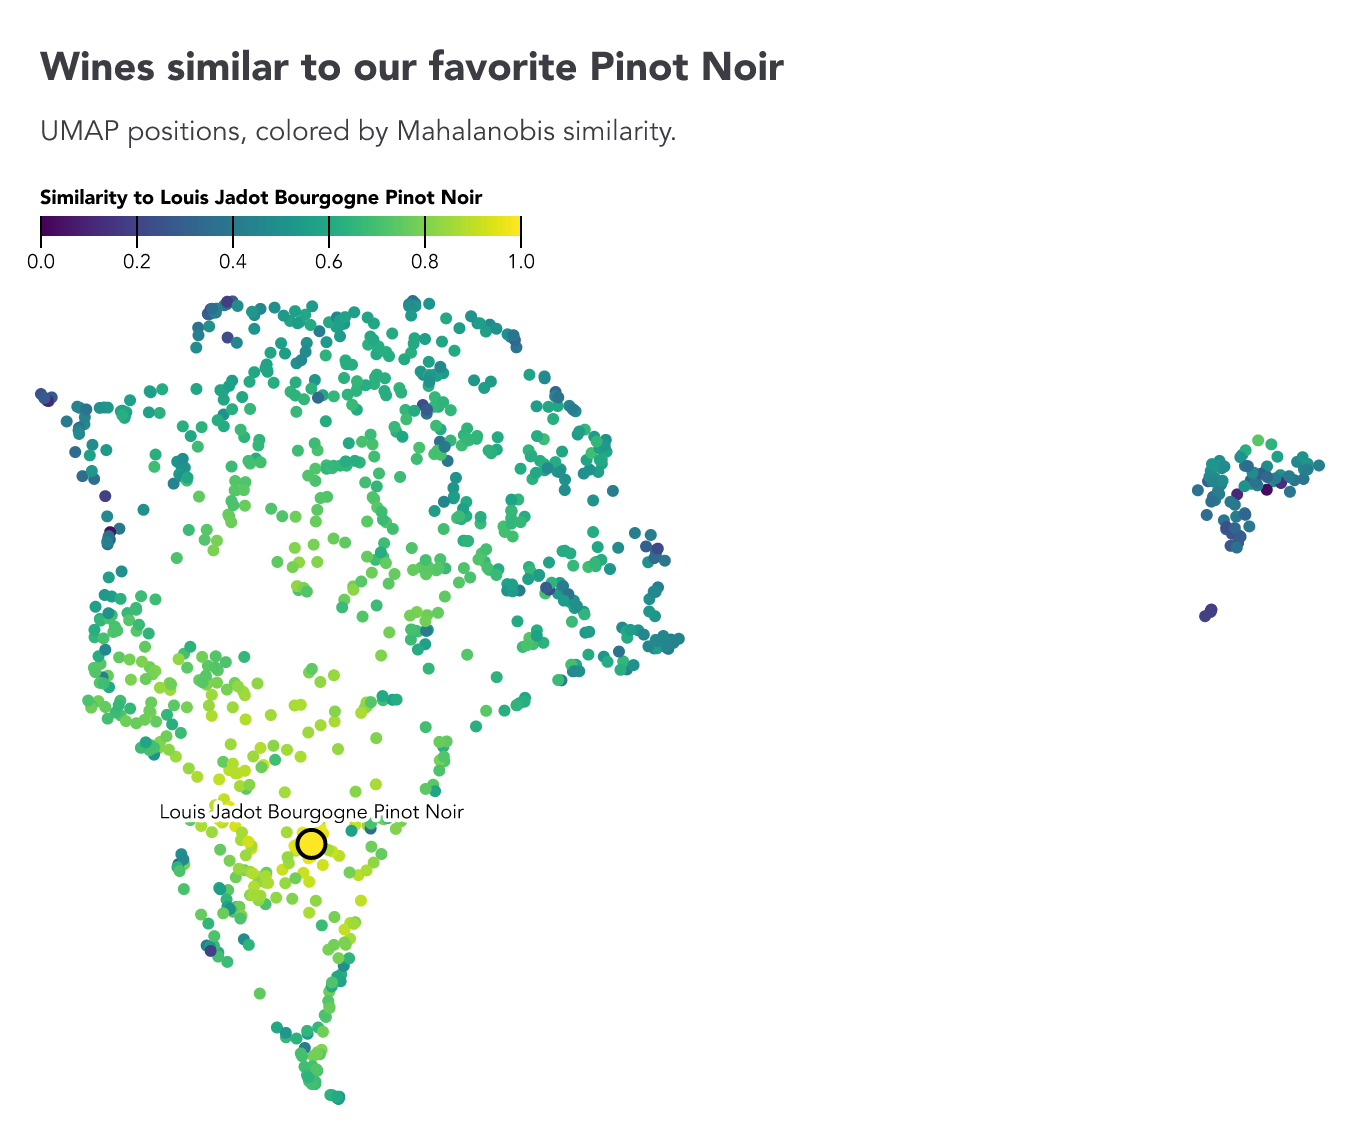
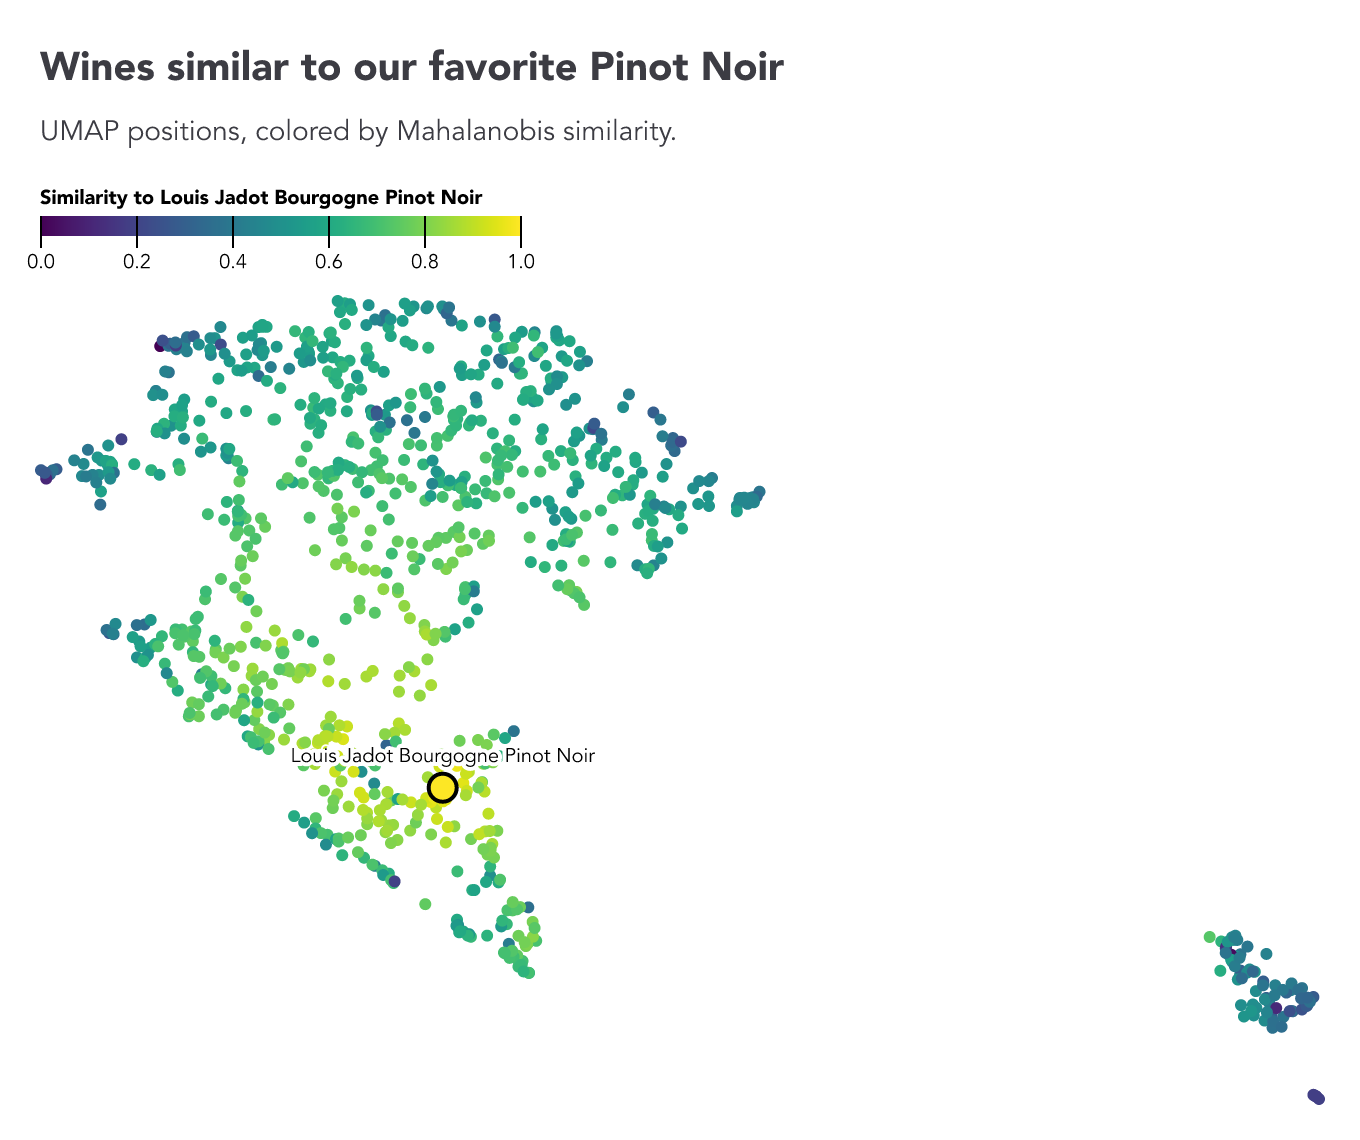
Simplify wine UMAP with Core column inputs

diff --git a/llm.md b/llm.md
@@ -2,7 +2,7 @@
 
 - Package: `@nshiab/simple-data-analysis`
 - Version: `6.0.8`
-- Includes: `@nshiab/simple-data-analysis-core@2.1.9`
+- Includes: `@nshiab/simple-data-analysis-core@2.1.10`
 
 To install the library with Deno, use:
 
@@ -3203,12 +3203,19 @@ await table.createVssIndex("embedding_column", {
 
 #### `umap`
 
-Reduces numeric vectors, such as embeddings, to a two-dimensional UMAP
+Reduces numeric features, such as embeddings, to a two-dimensional UMAP
 projection. The resulting coordinates are added as `umapX` and `umapY`, while
-all existing columns (including the source vector column), their values and
+all existing columns (including the source feature columns), their values and
 types, and the input row order are preserved. DuckDB computes neighbors and the
 fuzzy graph; TypeScript optimizes the coordinates without copying the input
 vectors into JavaScript. Neighbor search is selected automatically.
+
+Accepts a numeric LIST or ARRAY column, or an array of numeric scalar column
+names combined internally into a vector in the supplied order. Features must be
+finite and non-null; vectors must be nonempty and equally sized. Features are
+converted to DOUBLE without automatic scaling. Large integers and exact decimals
+can lose precision in this conversion. If feature scales differ, consider
+`normalize()` or `zScore()` before projection.
 
 The defaults are a starting point for exploration. To adjust the projection:
 
@@ -3239,12 +3246,14 @@ The defaults are a starting point for exploration. To adjust the projection:
 ##### Signature
 
 ```typescript
-umap(column: string, options?: { neighbors?: number; metric?: "euclidean" | "cosine"; epochs?: number; seed?: number; minDistance?: number; learningRate?: number; negativeSamples?: number }): this;
+umap(columns: string | string[], options?: { neighbors?: number; metric?: "euclidean" | "cosine"; epochs?: number; seed?: number; minDistance?: number; learningRate?: number; negativeSamples?: number }): this;
 ```
 
 ##### Parameters
 
-- **`column`**: The column containing numeric vector embeddings.
+- **`columns`**: A numeric vector column name, or a nonempty array of numeric
+  scalar column names in feature order. Use a one-element array for a single
+  scalar feature.
 - **`options`**: Optional projection settings.
 - **`options.neighbors`**: Neighborhood size, including the point itself.
   Integer of at least 2, clamped to row count minus one. Defaults to 15.
@@ -3278,6 +3287,12 @@ await table.umap("embedding", {
   neighbors: 30,
   minDistance: 0.25,
 }).selectColumns(["label", "umapX", "umapY"]).log();
+```
+
+```ts
+await table
+  .umap(["height", "weight", "age"], { seed: 42 })
+  .log();
 ```
 
 #### `hdbscan`

diff --git a/README.md b/README.md
@@ -913,10 +913,9 @@ the reference wine.
 | Joseph Drouhin Laforet Bourgogne Pinot Noir              | 0.240    | 0.957      |
 
 We can also map the wines with UMAP and color them by their similarity to our
-favorite. We standardize the four features before projecting them, so their
-scales do not dominate the layout. Color shows the Mahalanobis similarity score;
-position shows approximate relationships between wines. The outlined dot marks
-our reference wine.
+favorite, using the same four features. Color shows the Mahalanobis similarity
+score; position shows approximate relationships between wines. The outlined dot
+marks our reference wine.
 
 ```ts
 import { SimpleDB } from "@nshiab/simple-data-analysis";
@@ -940,17 +939,7 @@ await wines
     "distance",
     { similarityColumn: true },
   )
-  // Standardize the features and combine them into a vector for UMAP.
-  .zScore("acidity", "acidityZ")
-  .zScore("intensity", "intensityZ")
-  .zScore("sweetness", "sweetnessZ")
-  .zScore("tannin", "tanninZ")
-  .addColumn(
-    "features",
-    "FLOAT[4]",
-    "[acidityZ, intensityZ, sweetnessZ, tanninZ]",
-  )
-  .umap("features")
+  .umap(["acidity", "intensity", "sweetness", "tannin"])
   .writeChart(
     (data) =>
       plot({
